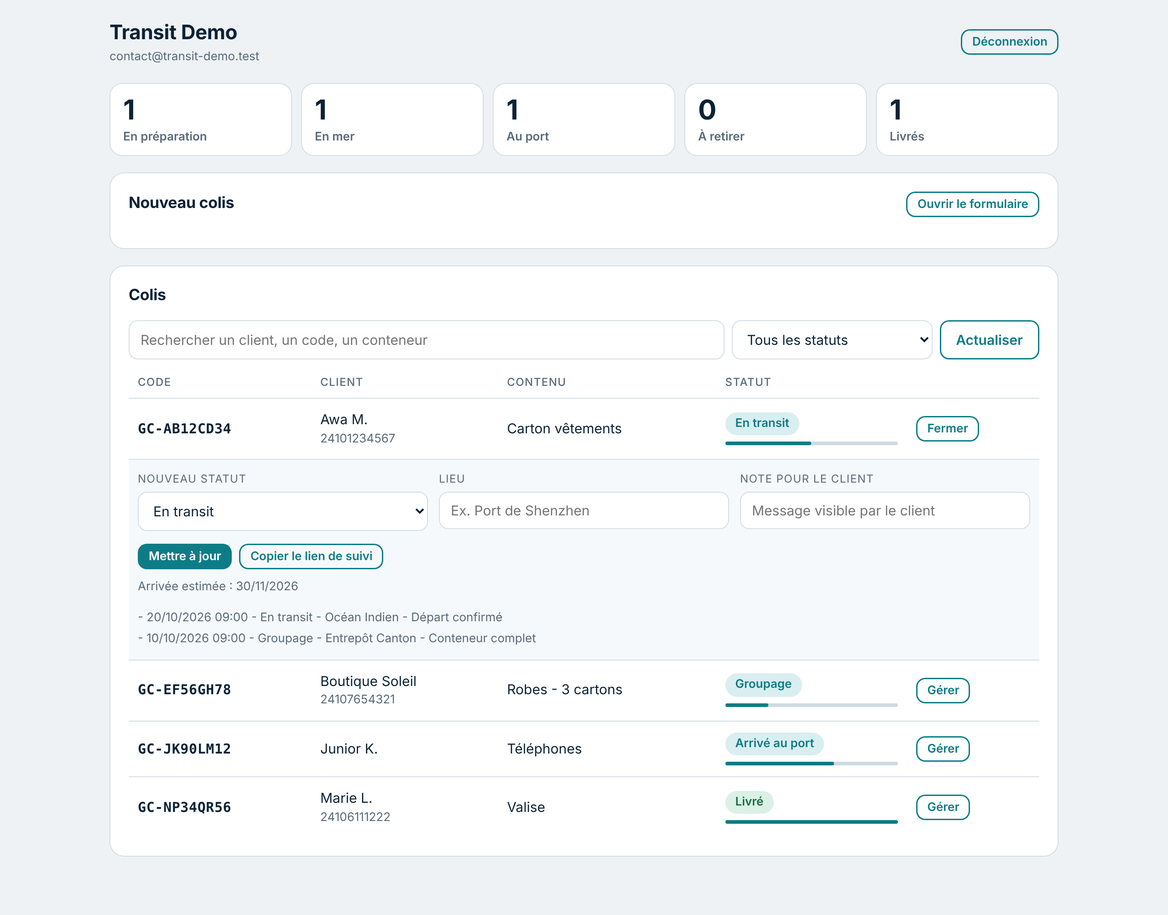
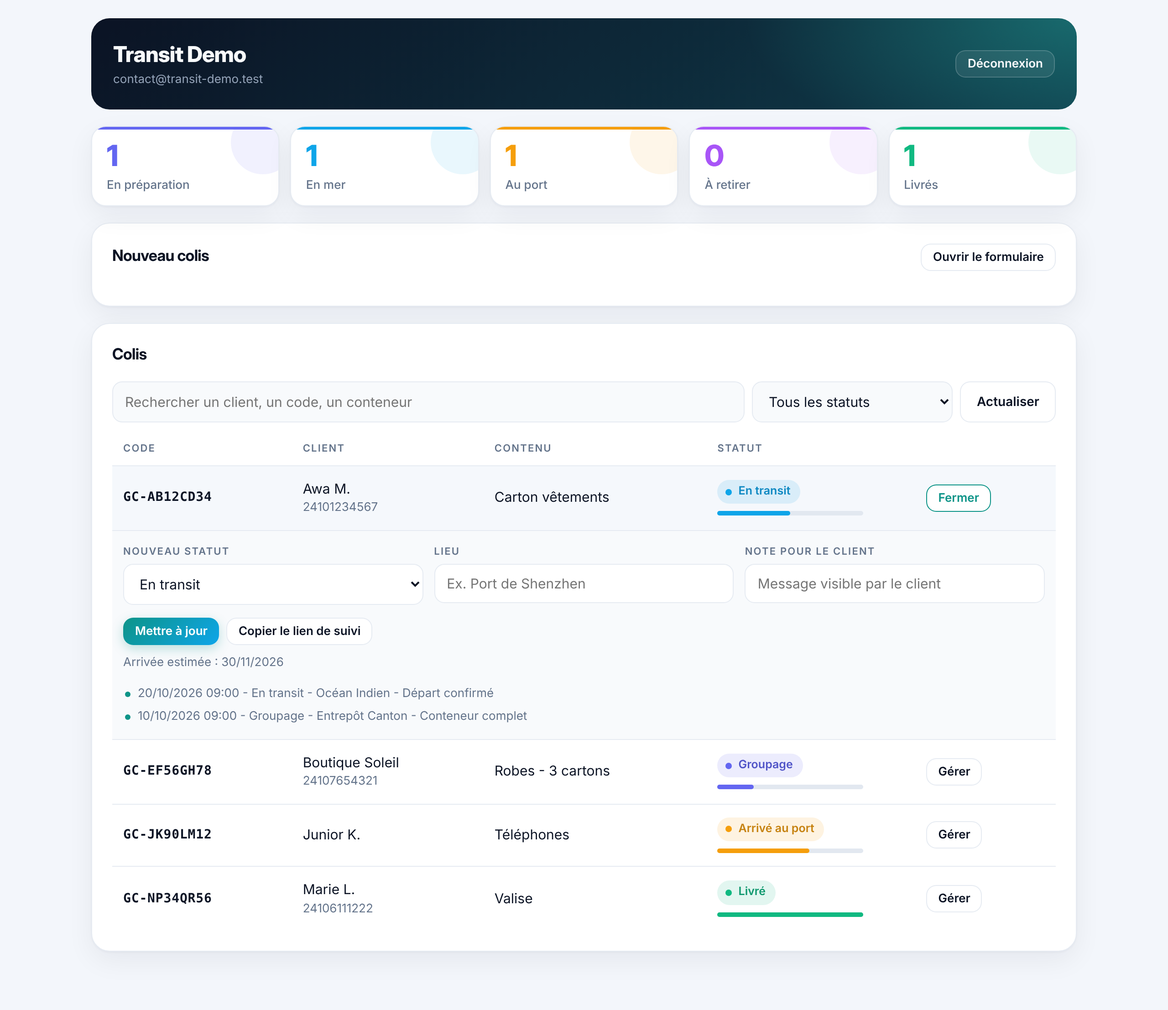
Interface modernisée : nouvelle palette, phases colorées, carte de statut

diff --git a/suivi-colis/suivi.html b/suivi-colis/suivi.html
@@ -6,93 +6,107 @@
 <title>Suivi de colis</title>
 <link rel="preconnect" href="https://fonts.googleapis.com">
 <link rel="preconnect" href="https://fonts.gstatic.com" crossorigin>
-<link rel="stylesheet" href="https://fonts.googleapis.com/css2?family=Bricolage+Grotesque:opsz,wght@12..96,500;12..96,700&family=IBM+Plex+Sans:wght@400;500;600&family=IBM+Plex+Mono:wght@500;600&display=swap">
+<link rel="stylesheet" href="https://fonts.googleapis.com/css2?family=Inter:wght@400;500;600;700;800&family=JetBrains+Mono:wght@500;600&display=swap">
 <style>
-  /* Concept : un trajet maritime Chine - Gabon lu de gauche a droite, ponctue d'etapes datees */
+  /* Concept : un trajet lu de gauche a droite. Carte de statut sombre, etapes datees en dessous. */
   :root {
-    --bg: #eef2f5; --surface: #ffffff; --ink: #0c2236; --mut: #5a6b7b; --line: #d5dee6;
-    --accent: #0e7c86; --accent-ink: #ffffff; --accent-soft: #d9eef0; --track: #cfdae3;
-    --warn: #8a5200; --warn-soft: #fbeed6; --ok: #17703f; --ok-soft: #dcf1e5;
-    --err: #b3261e; --err-soft: #fbe4e2;
-    --f-display: "Bricolage Grotesque", "Segoe UI", system-ui, sans-serif;
-    --f-body: "IBM Plex Sans", system-ui, -apple-system, "Segoe UI", sans-serif;
-    --f-mono: "IBM Plex Mono", ui-monospace, "SFMono-Regular", Menlo, monospace;
+    --bg: #f3f6fb; --surface: #ffffff; --ink: #0b1324; --mut: #64748b; --line: #e6ebf2;
+    --accent: #0d9488; --accent-2: #0ea5e9; --accent-ink: #ffffff; --accent-soft: #ccfbf1; --track: #e2e8f0;
+    --hero-a: #0b1324; --hero-b: #0f3b4a; --hero-ink: #f8fafc; --hero-mut: #94a3b8; --hero-track: rgba(255,255,255,.14);
+    --warn: #b45309; --warn-soft: #fef3c7; --ok: #047857; --ok-soft: #d1fae5;
+    --err: #b91c1c; --err-soft: #fee2e2;
+    --shadow: 0 1px 2px rgba(15,23,42,.04), 0 10px 30px rgba(15,23,42,.07);
+    --f-display: "Inter Display", "Inter", system-ui, -apple-system, "Segoe UI", sans-serif;
+    --f-body: "Inter", system-ui, -apple-system, "Segoe UI", sans-serif;
+    --f-mono: "JetBrains Mono", "IBM Plex Mono", ui-monospace, "SFMono-Regular", Menlo, monospace;
   }
   @media (prefers-color-scheme: dark) { :root:not([data-theme="light"]) {
-    --bg: #09141e; --surface: #102130; --ink: #e8eff5; --mut: #8ea2b4; --line: #213648;
-    --accent: #4fc3cd; --accent-ink: #04222a; --accent-soft: #12373f; --track: #24384a;
-    --warn: #f0b45a; --warn-soft: #3a2c10; --ok: #66d49a; --ok-soft: #123824;
-    --err: #ff9a92; --err-soft: #3d1b19; color-scheme: dark; } }
+    --bg: #070d18; --surface: #0f1726; --ink: #e8eef6; --mut: #8a9bb0; --line: #1e2a3d;
+    --accent: #2dd4bf; --accent-2: #38bdf8; --accent-ink: #04201c; --accent-soft: #0f3a37; --track: #1e2a3d;
+    --hero-a: #0f1d33; --hero-b: #0d4a54;
+    --warn: #fbbf24; --warn-soft: #3a2a08; --ok: #34d399; --ok-soft: #0b3326;
+    --err: #fca5a5; --err-soft: #3d1414; --shadow: 0 1px 2px rgba(0,0,0,.3), 0 10px 30px rgba(0,0,0,.35); color-scheme: dark; } }
   :root[data-theme="dark"] {
-    --bg: #09141e; --surface: #102130; --ink: #e8eff5; --mut: #8ea2b4; --line: #213648;
-    --accent: #4fc3cd; --accent-ink: #04222a; --accent-soft: #12373f; --track: #24384a;
-    --warn: #f0b45a; --warn-soft: #3a2c10; --ok: #66d49a; --ok-soft: #123824;
-    --err: #ff9a92; --err-soft: #3d1b19; color-scheme: dark; }
+    --bg: #070d18; --surface: #0f1726; --ink: #e8eef6; --mut: #8a9bb0; --line: #1e2a3d;
+    --accent: #2dd4bf; --accent-2: #38bdf8; --accent-ink: #04201c; --accent-soft: #0f3a37; --track: #1e2a3d;
+    --hero-a: #0f1d33; --hero-b: #0d4a54;
+    --warn: #fbbf24; --warn-soft: #3a2a08; --ok: #34d399; --ok-soft: #0b3326;
+    --err: #fca5a5; --err-soft: #3d1414; --shadow: 0 1px 2px rgba(0,0,0,.3), 0 10px 30px rgba(0,0,0,.35); color-scheme: dark; }
 
   * { box-sizing: border-box; }
-  body { margin: 0; background: var(--bg); color: var(--ink); font: 16px/1.5 var(--f-body);
-         padding-block: 0 56px; padding-left: max(16px, env(safe-area-inset-left, 0px)); padding-right: max(16px, env(safe-area-inset-right, 0px)); }
+  body { margin: 0; color: var(--ink); font: 16px/1.55 var(--f-body); -webkit-font-smoothing: antialiased;
+         background: radial-gradient(900px 420px at 50% -120px, color-mix(in srgb, var(--accent) 14%, transparent), transparent 70%), var(--bg);
+         min-height: 100vh; padding-block: 0 56px; padding-left: max(16px, env(safe-area-inset-left, 0px)); padding-right: max(16px, env(safe-area-inset-right, 0px)); }
   .shell { max-width: 680px; margin: 0 auto; }
-  header.top { display: flex; align-items: center; gap: 12px; padding: 20px 0 8px; }
-  .mark { width: 38px; height: 38px; border-radius: 10px; background: var(--accent); display: grid; place-items: center; flex: none; }
-  .mark svg { width: 22px; height: 22px; fill: none; stroke: var(--accent-ink); stroke-width: 2; stroke-linecap: round; stroke-linejoin: round; }
-  .brand { font: 700 18px/1.1 var(--f-display); }
+  header.top { display: flex; align-items: center; gap: 12px; padding: 22px 0 6px; }
+  .mark { width: 40px; height: 40px; border-radius: 12px; background: linear-gradient(135deg, var(--accent), var(--accent-2)); display: grid; place-items: center; flex: none;
+          box-shadow: 0 6px 16px color-mix(in srgb, var(--accent) 35%, transparent); }
+  .mark svg { width: 22px; height: 22px; fill: none; stroke: #fff; stroke-width: 2; stroke-linecap: round; stroke-linejoin: round; }
+  .brand { font: 700 17px/1.15 var(--f-display); letter-spacing: -.01em; }
   .tag { font-size: 13px; color: var(--mut); }
 
-  .hero { padding: 28px 0 8px; }
-  h1 { font: 700 clamp(30px, 8vw, 44px)/1.05 var(--f-display); letter-spacing: -.02em; margin: 0 0 10px; text-wrap: balance; }
-  .lead { color: var(--mut); margin: 0 0 20px; max-width: 46ch; }
-  form { display: flex; gap: 8px; flex-wrap: wrap; }
-  input { flex: 1 1 200px; min-width: 0; padding: 14px 16px; border: 1.5px solid var(--line); border-radius: 12px; font: 600 18px var(--f-mono);
-          letter-spacing: .04em; text-transform: uppercase; background: var(--surface); color: var(--ink); }
-  input::placeholder { color: var(--mut); opacity: .7; font-weight: 500; }
-  input:focus-visible, button:focus-visible { outline: 3px solid var(--accent); outline-offset: 2px; }
-  button { padding: 14px 24px; border: 0; border-radius: 12px; background: var(--accent); color: var(--accent-ink); font: 600 16px var(--f-body); cursor: pointer; }
+  .hero { padding: 30px 0 6px; }
+  h1 { font: 800 clamp(32px, 8vw, 46px)/1.04 var(--f-display); letter-spacing: -.035em; margin: 0 0 10px; text-wrap: balance; }
+  .lead { color: var(--mut); margin: 0 0 22px; max-width: 46ch; }
+  form { display: flex; gap: 8px; flex-wrap: wrap; padding: 6px; background: var(--surface); border: 1px solid var(--line); border-radius: 16px; box-shadow: var(--shadow); }
+  input { flex: 1 1 200px; min-width: 0; padding: 13px 14px; border: 0; border-radius: 11px; font: 600 18px var(--f-mono);
+          letter-spacing: .05em; text-transform: uppercase; background: transparent; color: var(--ink); }
+  input::placeholder { color: var(--mut); opacity: .6; font-weight: 500; }
+  input:focus-visible, button:focus-visible { outline: 3px solid color-mix(in srgb, var(--accent) 50%, transparent); outline-offset: 2px; }
+  button { padding: 13px 22px; border: 0; border-radius: 11px; background: linear-gradient(135deg, var(--accent), var(--accent-2)); color: #fff;
+           font: 600 16px var(--f-body); cursor: pointer; box-shadow: 0 6px 16px color-mix(in srgb, var(--accent) 30%, transparent); }
   button:disabled { opacity: .6; cursor: default; }
 
-  .card { background: var(--surface); border: 1px solid var(--line); border-radius: 16px; padding: 22px; margin-top: 18px; }
-  .err { background: var(--err-soft); color: var(--err); border-color: transparent; font-weight: 500; }
+  .card { background: var(--surface); border: 1px solid var(--line); border-radius: 20px; padding: 24px; margin-top: 18px; box-shadow: var(--shadow); }
+  .err { background: var(--err-soft); color: var(--err); border-color: transparent; font-weight: 500; box-shadow: none; }
 
+  /* Carte de statut : fond sombre degrade */
+  #result article:first-child { position: relative; overflow: hidden; border: 0; color: var(--hero-ink);
+    background: radial-gradient(500px 240px at 100% 0%, rgba(45,212,191,.28), transparent 70%), linear-gradient(150deg, var(--hero-a), var(--hero-b)); }
+  #result article:first-child .label, #result article:first-child .eta span, #result article:first-child dt { color: var(--hero-mut); }
   .row-top { display: flex; justify-content: space-between; align-items: flex-start; gap: 12px; flex-wrap: wrap; }
-  .label { font-size: 12px; letter-spacing: .08em; text-transform: uppercase; color: var(--mut); }
-  .code { font: 600 22px var(--f-mono); letter-spacing: .04em; }
-  .phase { font-size: 13px; font-weight: 600; padding: 5px 12px; border-radius: 999px; background: var(--accent-soft); color: var(--accent); }
-  .phase.ok { background: var(--ok-soft); color: var(--ok); }
-  .status { font: 700 clamp(24px, 6vw, 32px)/1.1 var(--f-display); letter-spacing: -.01em; margin: 14px 0 22px; text-wrap: balance; }
+  .label { font-size: 11px; font-weight: 600; letter-spacing: .12em; text-transform: uppercase; color: var(--mut); }
+  .code { font: 600 21px var(--f-mono); letter-spacing: .05em; margin-top: 2px; }
+  .phase { font-size: 13px; font-weight: 600; padding: 6px 12px; border-radius: 999px; background: rgba(45,212,191,.16); color: #5eead4;
+           border: 1px solid rgba(94,234,212,.3); }
+  .phase.ok { background: rgba(52,211,153,.16); color: #6ee7b7; border-color: rgba(110,231,183,.3); }
+  .status { font: 800 clamp(26px, 6.5vw, 34px)/1.08 var(--f-display); letter-spacing: -.025em; margin: 16px 0 24px; text-wrap: balance; }
 
   .route { margin: 0 0 6px; }
-  .ends { display: flex; justify-content: space-between; gap: 8px; font-size: 13px; font-weight: 600; margin-bottom: 12px; }
+  .ends { display: flex; justify-content: space-between; gap: 8px; font-size: 13px; font-weight: 600; margin-bottom: 14px; }
   .ends span:last-child { text-align: right; }
-  .track { position: relative; height: 6px; border-radius: 3px; background: var(--track); margin: 0 8px; }
-  .track #bar { position: absolute; left: 0; top: 0; bottom: 0; border-radius: 3px; background: var(--accent); transition: width .6s ease; width: 0; }
-  .track .dot { position: absolute; top: 50%; width: 12px; height: 12px; margin: -6px 0 0 -6px; border-radius: 50%; background: var(--surface); border: 2px solid var(--track); }
-  .track .dot.on { border-color: var(--accent); background: var(--accent); }
-  .track #ship { position: absolute; top: 50%; width: 22px; height: 22px; margin: -11px 0 0 -11px; border-radius: 50%; background: var(--surface);
-                 border: 3px solid var(--accent); box-shadow: 0 0 0 5px var(--accent-soft); transition: left .6s ease; left: 0; }
+  .track { position: relative; height: 6px; border-radius: 3px; background: var(--hero-track); margin: 0 10px; }
+  .track #bar { position: absolute; left: 0; top: 0; bottom: 0; border-radius: 3px; background: linear-gradient(90deg, #2dd4bf, #38bdf8); transition: width .6s ease; width: 0; }
+  .track .dot { position: absolute; top: 50%; width: 10px; height: 10px; margin: -5px 0 0 -5px; border-radius: 50%; background: var(--hero-a); border: 2px solid rgba(255,255,255,.28); }
+  .track .dot.on { border-color: #5eead4; background: #5eead4; }
+  .track #ship { position: absolute; top: 50%; width: 24px; height: 24px; margin: -12px 0 0 -12px; border-radius: 50%; background: #fff;
+                 border: 5px solid #38bdf8; box-shadow: 0 0 0 6px rgba(56,189,248,.22), 0 0 24px rgba(56,189,248,.6); transition: left .6s ease; left: 0; }
 
-  .eta { display: flex; align-items: baseline; gap: 10px; flex-wrap: wrap; margin-top: 22px; padding-top: 18px; border-top: 1px solid var(--line); }
-  .eta strong { font: 700 28px/1 var(--f-display); }
+  .eta { display: flex; align-items: baseline; gap: 12px; flex-wrap: wrap; margin-top: 24px; padding-top: 20px; border-top: 1px solid rgba(255,255,255,.1); }
+  .eta strong { font: 800 34px/1 var(--f-display); letter-spacing: -.03em;
+                background: linear-gradient(90deg, #5eead4, #7dd3fc); -webkit-background-clip: text; background-clip: text; color: transparent; }
   .eta span { color: var(--mut); }
-  .eta.late strong { color: var(--warn); }
+  .eta.late strong { background: none; color: #fbbf24; }
 
   dl { display: grid; grid-template-columns: auto 1fr; gap: 8px 20px; margin: 18px 0 0; font-size: 14px; }
   dt { color: var(--mut); }
   dd { margin: 0; font-weight: 500; overflow-wrap: anywhere; }
 
-  h2 { font: 700 18px var(--f-display); margin: 0 0 18px; }
+  h2 { font: 700 17px var(--f-display); letter-spacing: -.01em; margin: 0 0 20px; }
   ol { list-style: none; margin: 0; padding: 0; }
-  li { position: relative; padding: 0 0 20px 34px; }
-  li::before { content: ""; position: absolute; left: 10px; top: 22px; bottom: -2px; width: 2px; background: var(--line); }
+  li { position: relative; padding: 0 0 22px 36px; }
+  li::before { content: ""; position: absolute; left: 10px; top: 24px; bottom: 0; width: 2px; background: var(--line); border-radius: 1px; }
   li:last-child { padding-bottom: 0; }
   li:last-child::before { display: none; }
-  li.done::before { background: var(--accent); }
-  .pt { position: absolute; left: 3px; top: 4px; width: 16px; height: 16px; border-radius: 50%; border: 2px solid var(--line); background: var(--surface); }
-  li.done .pt { background: var(--accent); border-color: var(--accent); }
-  li.now .pt { background: var(--surface); border-color: var(--accent); box-shadow: 0 0 0 5px var(--accent-soft); }
+  li.done::before { background: linear-gradient(var(--accent), var(--accent-2)); }
+  .pt { position: absolute; left: 2px; top: 3px; width: 18px; height: 18px; border-radius: 50%; border: 2px solid var(--line); background: var(--surface); }
+  li.done .pt { background: var(--accent); border-color: var(--accent); box-shadow: inset 0 0 0 3px var(--surface); }
+  li.now .pt { background: var(--accent-2); border-color: var(--accent-2); box-shadow: 0 0 0 5px color-mix(in srgb, var(--accent-2) 22%, transparent); }
   .ev-t { font-weight: 600; }
-  li.todo .ev-t { color: var(--mut); font-weight: 500; }
+  li.now .ev-t { color: var(--accent-2); }
+  li.todo .ev-t { color: var(--mut); font-weight: 500; opacity: .8; }
   .ev-m { color: var(--mut); font-size: 13px; }
-  .contact { font-size: 14px; color: var(--mut); margin: 18px 4px 0; }
+  .contact { font-size: 14px; color: var(--mut); margin: 18px 4px 0; text-align: center; }
   [hidden] { display: none !important; }
   @media (prefers-reduced-motion: reduce) { .track #bar, .track #ship { transition: none; } }
 </style>

diff --git a/suivi-colis/admin.html b/suivi-colis/admin.html
@@ -7,47 +7,56 @@
 <title>Gestion des colis</title>
 <link rel="preconnect" href="https://fonts.googleapis.com">
 <link rel="preconnect" href="https://fonts.gstatic.com" crossorigin>
-<link rel="stylesheet" href="https://fonts.googleapis.com/css2?family=Bricolage+Grotesque:opsz,wght@12..96,500;12..96,700&family=IBM+Plex+Sans:wght@400;500;600&family=IBM+Plex+Mono:wght@500;600&display=swap">
+<link rel="stylesheet" href="https://fonts.googleapis.com/css2?family=Inter:wght@400;500;600;700;800&family=JetBrains+Mono:wght@500;600&display=swap">
 <style>
-  /* Concept : tableau de bord de quai. Les cinq phases du voyage en haut, la liste des colis dessous. */
+  /* Concept : tableau de bord de quai. Bandeau sombre, cinq phases colorees, liste des colis dessous. */
   :root {
-    --bg: #eef2f5; --surface: #ffffff; --ink: #0c2236; --mut: #5a6b7b; --line: #d5dee6; --row: #f6f9fb;
-    --accent: #0e7c86; --accent-ink: #ffffff; --accent-soft: #d9eef0; --track: #cfdae3;
-    --warn: #8a5200; --warn-soft: #fbeed6; --ok: #17703f; --ok-soft: #dcf1e5;
-    --err: #b3261e; --err-soft: #fbe4e2;
-    --f-display: "Bricolage Grotesque", "Segoe UI", system-ui, sans-serif;
-    --f-body: "IBM Plex Sans", system-ui, -apple-system, "Segoe UI", sans-serif;
-    --f-mono: "IBM Plex Mono", ui-monospace, "SFMono-Regular", Menlo, monospace;
+    --bg: #f3f6fb; --surface: #ffffff; --ink: #0b1324; --mut: #64748b; --line: #e6ebf2; --row: #f8fafc; --hover: #f5f8fc;
+    --accent: #0d9488; --accent-2: #0ea5e9; --accent-ink: #ffffff; --accent-soft: #ccfbf1; --track: #e2e8f0;
+    --hero-a: #0b1324; --hero-b: #0f3b4a;
+    --warn: #b45309; --warn-soft: #fef3c7; --ok: #047857; --ok-soft: #d1fae5;
+    --err: #b91c1c; --err-soft: #fee2e2;
+    --c-prep: #6366f1; --c-mer: #0ea5e9; --c-port: #f59e0b; --c-retrait: #a855f7; --c-livre: #10b981;
+    --shadow: 0 1px 2px rgba(15,23,42,.04), 0 10px 30px rgba(15,23,42,.06);
+    --f-display: "Inter Display", "Inter", system-ui, -apple-system, "Segoe UI", sans-serif;
+    --f-body: "Inter", system-ui, -apple-system, "Segoe UI", sans-serif;
+    --f-mono: "JetBrains Mono", "IBM Plex Mono", ui-monospace, "SFMono-Regular", Menlo, monospace;
   }
   @media (prefers-color-scheme: dark) { :root:not([data-theme="light"]) {
-    --bg: #09141e; --surface: #102130; --ink: #e8eff5; --mut: #8ea2b4; --line: #213648; --row: #0d1b29;
-    --accent: #4fc3cd; --accent-ink: #04222a; --accent-soft: #12373f; --track: #24384a;
-    --warn: #f0b45a; --warn-soft: #3a2c10; --ok: #66d49a; --ok-soft: #123824;
-    --err: #ff9a92; --err-soft: #3d1b19; color-scheme: dark; } }
+    --bg: #070d18; --surface: #0f1726; --ink: #e8eef6; --mut: #8a9bb0; --line: #1e2a3d; --row: #0b1220; --hover: #121c2e;
+    --accent: #2dd4bf; --accent-2: #38bdf8; --accent-ink: #04201c; --accent-soft: #0f3a37; --track: #1e2a3d;
+    --hero-a: #0f1d33; --hero-b: #0d4a54;
+    --warn: #fbbf24; --warn-soft: #3a2a08; --ok: #34d399; --ok-soft: #0b3326;
+    --err: #fca5a5; --err-soft: #3d1414; --shadow: 0 1px 2px rgba(0,0,0,.3), 0 10px 30px rgba(0,0,0,.35); color-scheme: dark; } }
   :root[data-theme="dark"] {
-    --bg: #09141e; --surface: #102130; --ink: #e8eff5; --mut: #8ea2b4; --line: #213648; --row: #0d1b29;
-    --accent: #4fc3cd; --accent-ink: #04222a; --accent-soft: #12373f; --track: #24384a;
-    --warn: #f0b45a; --warn-soft: #3a2c10; --ok: #66d49a; --ok-soft: #123824;
-    --err: #ff9a92; --err-soft: #3d1b19; color-scheme: dark; }
+    --bg: #070d18; --surface: #0f1726; --ink: #e8eef6; --mut: #8a9bb0; --line: #1e2a3d; --row: #0b1220; --hover: #121c2e;
+    --accent: #2dd4bf; --accent-2: #38bdf8; --accent-ink: #04201c; --accent-soft: #0f3a37; --track: #1e2a3d;
+    --hero-a: #0f1d33; --hero-b: #0d4a54;
+    --warn: #fbbf24; --warn-soft: #3a2a08; --ok: #34d399; --ok-soft: #0b3326;
+    --err: #fca5a5; --err-soft: #3d1414; --shadow: 0 1px 2px rgba(0,0,0,.3), 0 10px 30px rgba(0,0,0,.35); color-scheme: dark; }
 
   * { box-sizing: border-box; }
-  body { margin: 0; background: var(--bg); color: var(--ink); font: 15px/1.5 var(--f-body);
+  body { margin: 0; background: var(--bg); color: var(--ink); font: 15px/1.5 var(--f-body); -webkit-font-smoothing: antialiased;
          padding-block: 0 64px; padding-left: max(16px, env(safe-area-inset-left, 0px)); padding-right: max(16px, env(safe-area-inset-right, 0px)); }
-  .shell { max-width: 1040px; margin: 0 auto; }
-  h1, h2 { font-family: var(--f-display); margin: 0; letter-spacing: -.01em; }
-  h1 { font-size: 22px; }
-  h2 { font-size: 17px; }
-  label { display: block; font-size: 12px; letter-spacing: .06em; text-transform: uppercase; color: var(--mut); margin-bottom: 5px; }
-  input, select { width: 100%; padding: 10px 12px; border: 1.5px solid var(--line); border-radius: 10px; font: 15px var(--f-body); background: var(--surface); color: var(--ink); }
-  input:focus-visible, select:focus-visible, button:focus-visible { outline: 3px solid var(--accent); outline-offset: 2px; }
-  button { padding: 10px 18px; border: 0; border-radius: 10px; background: var(--accent); color: var(--accent-ink); font: 600 15px var(--f-body); cursor: pointer; }
-  button.sec { background: transparent; color: var(--accent); box-shadow: inset 0 0 0 1.5px var(--accent); }
-  button.sm { padding: 6px 12px; font-size: 13px; }
+  .shell { max-width: 1080px; margin: 0 auto; }
+  h1, h2 { font-family: var(--f-display); margin: 0; letter-spacing: -.02em; }
+  h1 { font-size: 24px; font-weight: 800; }
+  h2 { font-size: 17px; font-weight: 700; }
+  label { display: block; font-size: 11px; font-weight: 600; letter-spacing: .1em; text-transform: uppercase; color: var(--mut); margin-bottom: 6px; }
+  input, select { width: 100%; padding: 11px 13px; border: 1px solid var(--line); border-radius: 11px; font: 15px var(--f-body); background: var(--surface); color: var(--ink);
+                  transition: border-color .15s, box-shadow .15s; }
+  input:focus, select:focus { border-color: var(--accent); box-shadow: 0 0 0 4px color-mix(in srgb, var(--accent) 15%, transparent); outline: none; }
+  input:focus-visible, select:focus-visible, button:focus-visible { outline: 3px solid color-mix(in srgb, var(--accent) 50%, transparent); outline-offset: 2px; }
+  button { padding: 11px 18px; border: 0; border-radius: 11px; background: linear-gradient(135deg, var(--accent), var(--accent-2)); color: #fff;
+           font: 600 14px var(--f-body); cursor: pointer; box-shadow: 0 4px 12px color-mix(in srgb, var(--accent) 25%, transparent); }
+  button.sec { background: var(--surface); color: var(--ink); box-shadow: inset 0 0 0 1px var(--line); }
+  button.sec:hover { box-shadow: inset 0 0 0 1px var(--accent); color: var(--accent); }
+  button.sm { padding: 7px 13px; font-size: 13px; }
   button:disabled { opacity: .6; cursor: default; }
-  .card { background: var(--surface); border: 1px solid var(--line); border-radius: 16px; padding: 20px; }
+  .card { background: var(--surface); border: 1px solid var(--line); border-radius: 20px; padding: 22px; box-shadow: var(--shadow); }
   .mut { color: var(--mut); font-size: 13px; }
-  .mono { font-family: var(--f-mono); font-weight: 600; letter-spacing: .02em; }
-  .msg { padding: 11px 14px; border-radius: 10px; font-size: 14px; font-weight: 500; margin-bottom: 14px; }
+  .mono { font-family: var(--f-mono); font-weight: 600; letter-spacing: .03em; font-size: 14px; }
+  .msg { padding: 12px 15px; border-radius: 12px; font-size: 14px; font-weight: 500; margin-bottom: 14px; }
   .msg.err { background: var(--err-soft); color: var(--err); }
   .msg.ok { background: var(--ok-soft); color: var(--ok); }
 
@@ -56,35 +65,51 @@
   #login .mut { margin: 0 0 18px; }
   #login form > div + div { margin-top: 12px; }
 
-  header.top { display: flex; justify-content: space-between; align-items: center; gap: 12px; padding: 20px 0 18px; flex-wrap: wrap; }
-  .stats { display: grid; grid-template-columns: repeat(5, minmax(0, 1fr)); gap: 10px; }
-  .stat { text-align: left; background: var(--surface); color: var(--ink); border: 1px solid var(--line); border-radius: 14px; padding: 14px 14px 12px; box-shadow: none; }
-  .stat .n { font: 700 30px/1 var(--f-display); display: block; }
-  .stat .t { font-size: 13px; color: var(--mut); display: block; margin-top: 6px; }
-  .stat[aria-pressed="true"] { border-color: var(--accent); box-shadow: 0 0 0 3px var(--accent-soft); }
+  /* Bandeau */
+  header.top { display: flex; justify-content: space-between; align-items: center; gap: 12px; flex-wrap: wrap; margin: 20px 0 18px; padding: 22px 24px;
+               border-radius: 20px; color: #f8fafc;
+               background: radial-gradient(520px 220px at 100% 0%, rgba(45,212,191,.32), transparent 70%), linear-gradient(140deg, var(--hero-a), var(--hero-b)); }
+  header.top .mut { color: #94a3b8; }
+  header.top button.sec { background: rgba(255,255,255,.08); color: #f8fafc; box-shadow: inset 0 0 0 1px rgba(255,255,255,.18); }
+
+  /* Phases */
+  .stats { display: grid; grid-template-columns: repeat(5, minmax(0, 1fr)); gap: 12px; }
+  .stat { --c: var(--accent); position: relative; overflow: hidden; text-align: left; background: var(--surface); color: var(--ink); border: 1px solid var(--line);
+          border-radius: 16px; padding: 16px 16px 14px; box-shadow: var(--shadow); transition: transform .15s, box-shadow .15s; }
+  .stat::before { content: ""; position: absolute; left: 0; top: 0; right: 0; height: 3px; background: var(--c); }
+  .stat::after { content: ""; position: absolute; right: -18px; top: -18px; width: 70px; height: 70px; border-radius: 50%; background: var(--c); opacity: .09; }
+  .stat:hover { transform: translateY(-2px); }
+  .stat .n { font: 800 32px/1 var(--f-display); letter-spacing: -.03em; display: block; color: var(--c); }
+  .stat .t { font-size: 13px; font-weight: 500; color: var(--mut); display: block; margin-top: 8px; }
+  .stat[aria-pressed="true"] { border-color: var(--c); box-shadow: 0 0 0 3px color-mix(in srgb, var(--c) 20%, transparent); }
 
   .panel { margin-top: 18px; }
-  .panel-head { display: flex; justify-content: space-between; align-items: center; gap: 12px; margin-bottom: 14px; flex-wrap: wrap; }
+  .panel-head { display: flex; justify-content: space-between; align-items: center; gap: 12px; margin-bottom: 16px; flex-wrap: wrap; }
   .grid { display: grid; grid-template-columns: repeat(auto-fit, minmax(190px, 1fr)); gap: 12px; }
-  .bar { display: flex; gap: 8px; flex-wrap: wrap; margin-bottom: 8px; }
-  .bar input { flex: 1 1 200px; min-width: 0; }
-  .bar select { width: auto; flex: 0 1 220px; }
+  .bar { display: flex; gap: 8px; flex-wrap: wrap; margin-bottom: 10px; }
+  .bar input { flex: 1 1 200px; min-width: 0; background: var(--row); }
+  .bar select { width: auto; flex: 0 1 220px; background: var(--row); }
 
   .table-wrap { overflow-x: auto; }
   table { width: 100%; border-collapse: collapse; }
-  th { text-align: left; font-size: 12px; letter-spacing: .06em; text-transform: uppercase; color: var(--mut); font-weight: 500; padding: 8px 10px; border-bottom: 1px solid var(--line); }
-  td { padding: 12px 10px; border-bottom: 1px solid var(--line); vertical-align: middle; }
+  th { text-align: left; font-size: 11px; letter-spacing: .1em; text-transform: uppercase; color: var(--mut); font-weight: 600; padding: 10px 12px; border-bottom: 1px solid var(--line); }
+  td { padding: 14px 12px; border-bottom: 1px solid var(--line); vertical-align: middle; }
+  tbody tr:not(.detail):hover td { background: var(--hover); }
   tr:last-child td { border-bottom: 0; }
-  .pill { display: inline-block; padding: 3px 11px; border-radius: 999px; font-size: 13px; font-weight: 600; white-space: nowrap; background: var(--accent-soft); color: var(--accent); }
-  .pill.warn { background: var(--warn-soft); color: var(--warn); }
-  .pill.ok { background: var(--ok-soft); color: var(--ok); }
-  .mini { height: 4px; border-radius: 2px; background: var(--track); margin-top: 7px; min-width: 90px; }
-  .mini span { display: block; height: 100%; border-radius: 2px; background: var(--accent); }
+  .pill { --c: var(--accent); display: inline-flex; align-items: center; gap: 7px; padding: 4px 11px 4px 9px; border-radius: 999px; font-size: 12.5px; font-weight: 600; white-space: nowrap;
+          background: color-mix(in srgb, var(--c) 12%, transparent); color: color-mix(in srgb, var(--c) 80%, var(--ink)); }
+  .pill::before { content: ""; width: 7px; height: 7px; border-radius: 50%; background: var(--c); }
+  .mini { --c: var(--accent); height: 5px; border-radius: 3px; background: var(--track); margin-top: 8px; min-width: 100px; max-width: 160px; }
+  .mini span { display: block; height: 100%; border-radius: 3px; background: var(--c); }
   .detail td { background: var(--row); }
   .actions { display: flex; gap: 8px; flex-wrap: wrap; margin-top: 14px; }
-  .events { margin: 14px 0 0; padding: 0; list-style: none; font-size: 13px; color: var(--mut); display: grid; gap: 4px; }
-  .events li::before { content: "- "; }
+  .events { margin: 14px 0 0; padding: 0; list-style: none; font-size: 13px; color: var(--mut); display: grid; gap: 6px; }
+  .events li { position: relative; padding-left: 16px; }
+  .events li::before { content: ""; position: absolute; left: 2px; top: 7px; width: 6px; height: 6px; border-radius: 50%; background: var(--accent); }
   #empty { text-align: center; padding: 28px 0 10px; }
+  :is(.stat, .pill, .mini)[data-phase="prep"] { --c: var(--c-prep); } :is(.stat, .pill, .mini)[data-phase="mer"] { --c: var(--c-mer); }
+  :is(.stat, .pill, .mini)[data-phase="port"] { --c: var(--c-port); } :is(.stat, .pill, .mini)[data-phase="retrait"] { --c: var(--c-retrait); }
+  :is(.stat, .pill, .mini)[data-phase="livre"] { --c: var(--c-livre); }
   [hidden] { display: none !important; }
   @media (max-width: 760px) { .stats { grid-template-columns: repeat(2, minmax(0, 1fr)); } .hide-m { display: none; } }
 </style>

diff --git a/suivi-colis/admin.js b/suivi-colis/admin.js
@@ -85,7 +85,7 @@ function drawStats() {
   box.replaceChildren();
   PHASES.forEach((p) => {
     const n = shipments.filter((s) => p.steps.includes(s.status)).length;
-    const b = h('button', { type: 'button', class: 'stat', 'aria-pressed': String(phaseFilter === p.key),
+    const b = h('button', { type: 'button', class: 'stat', 'data-phase': p.key, 'aria-pressed': String(phaseFilter === p.key),
       onclick: () => { phaseFilter = phaseFilter === p.key ? '' : p.key; $('filter').value = ''; draw(); } },
       h('span', { class: 'n' }, n), h('span', { class: 't' }, p.label));
     box.append(b);
@@ -112,8 +112,8 @@ function draw() {
       h('td', { class: 'mono' }, s.tracking_code),
       h('td', {}, s.client_name, h('div', { class: 'mut' }, s.client_phone || '')),
       h('td', { class: 'hide-m' }, s.description || ''),
-      h('td', {}, h('span', { class: 'pill' + (ph?.key === 'retrait' || ph?.key === 'livre' ? ' ok' : '') }, LABELS[s.status] || s.status),
-        h('div', { class: 'mini' }, h('span', { style: 'width:' + pct + '%' }))),
+      h('td', {}, h('span', { class: 'pill' + (ph?.key === 'retrait' || ph?.key === 'livre' ? ' ok' : ''), 'data-phase': ph?.key || '' }, LABELS[s.status] || s.status),
+        h('div', { class: 'mini', 'data-phase': ph?.key || '' }, h('span', { style: 'width:' + pct + '%' }))),
       h('td', {}, h('button', { class: 'sec sm', type: 'button', onclick: () => { openId = openId === s.id ? null : s.id; draw(); } }, openId === s.id ? 'Fermer' : 'Gérer'))
     ));
     if (openId === s.id) body.append(detailRow(s));
